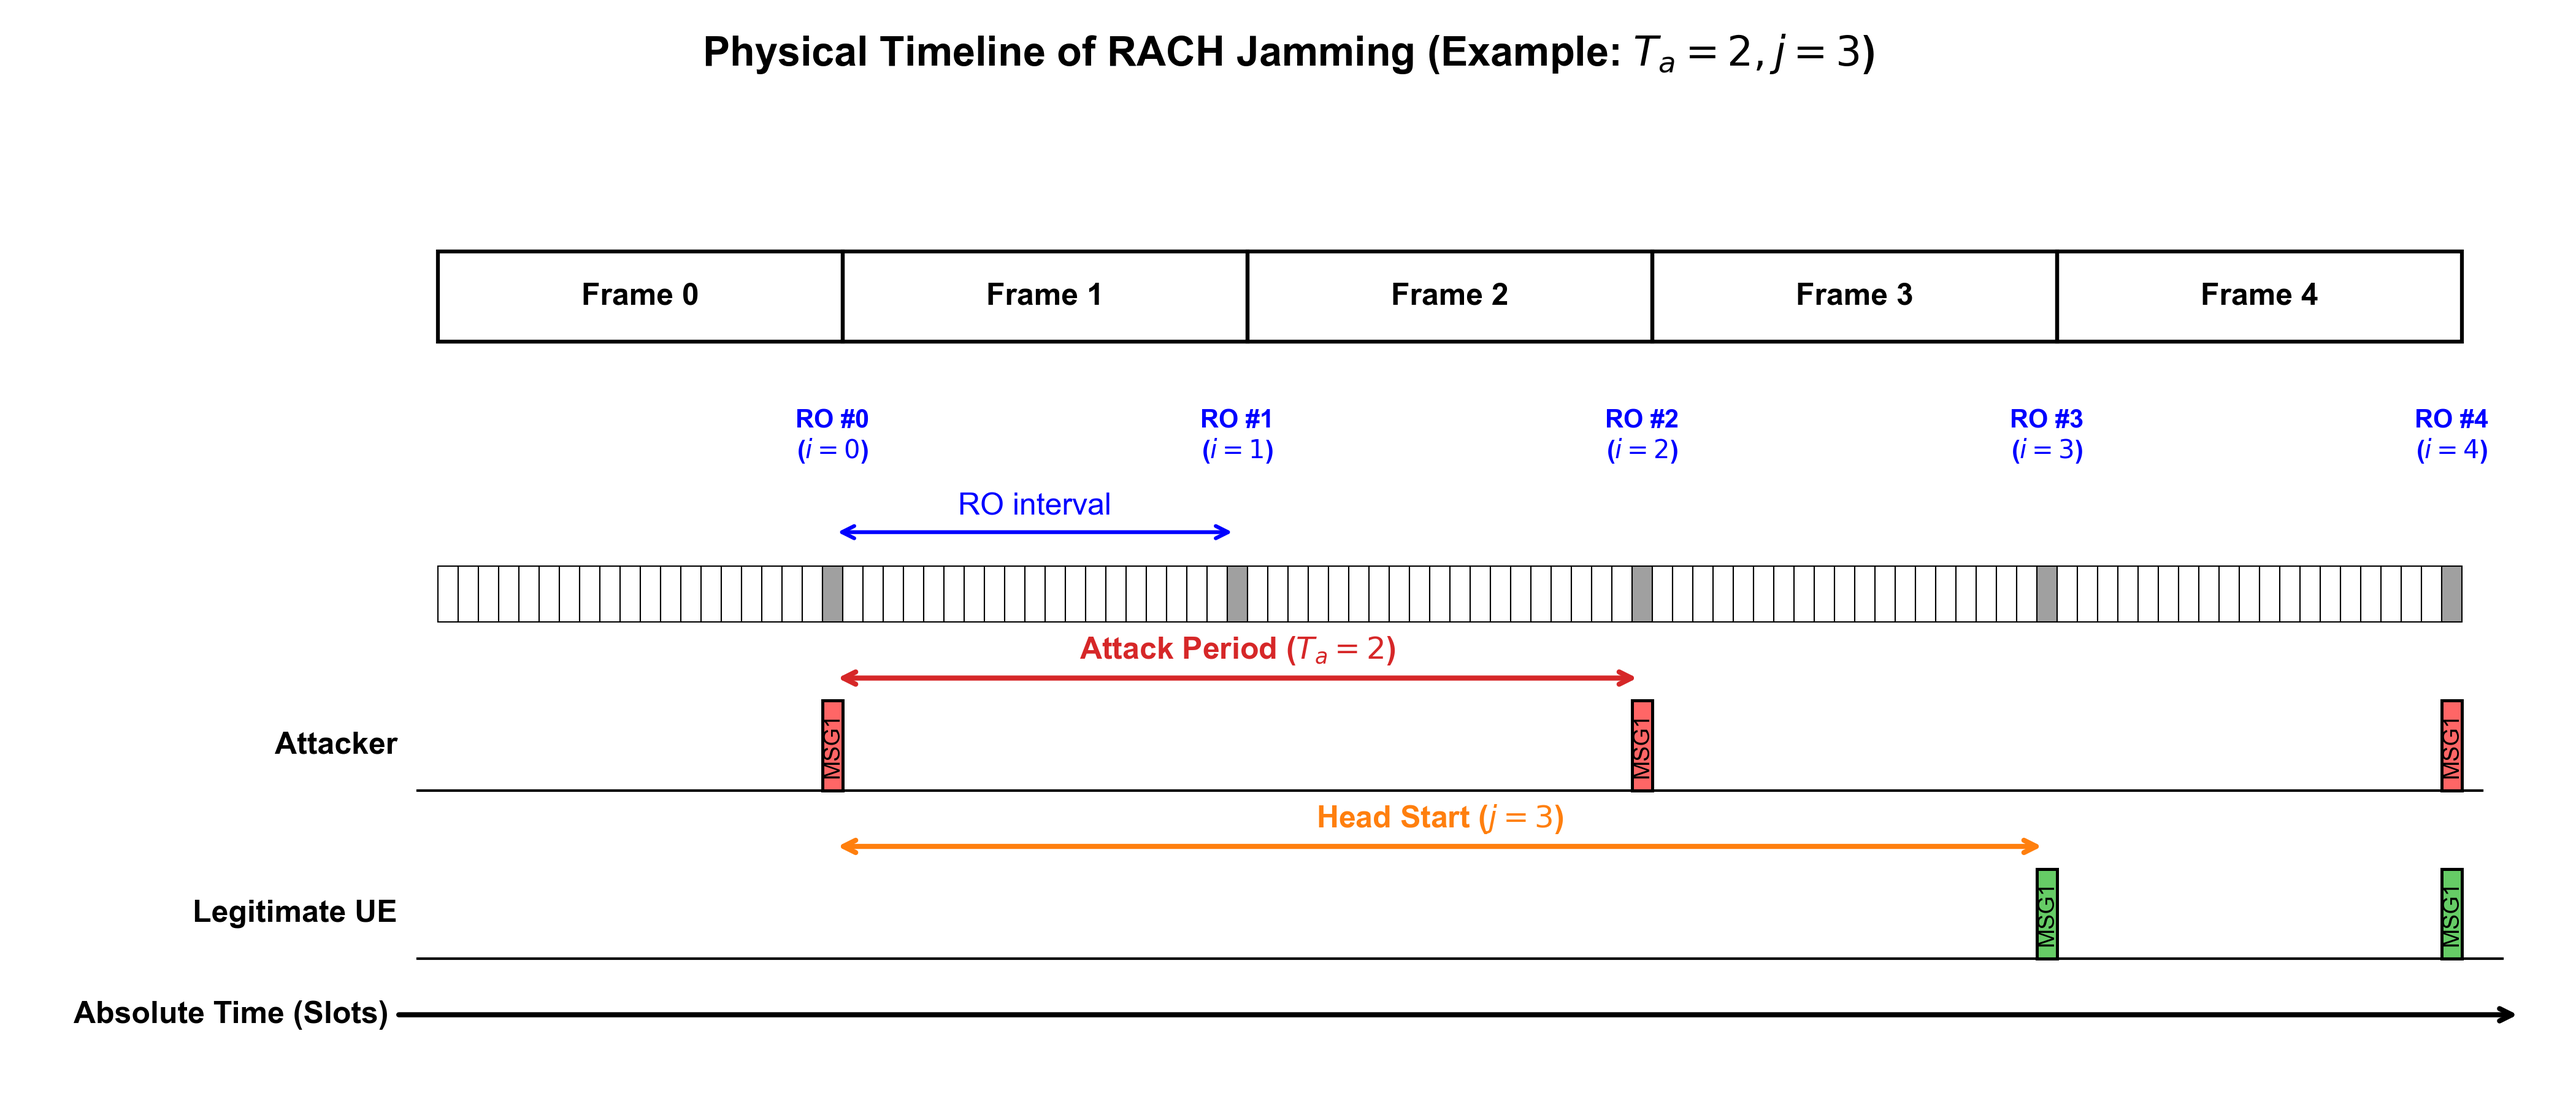
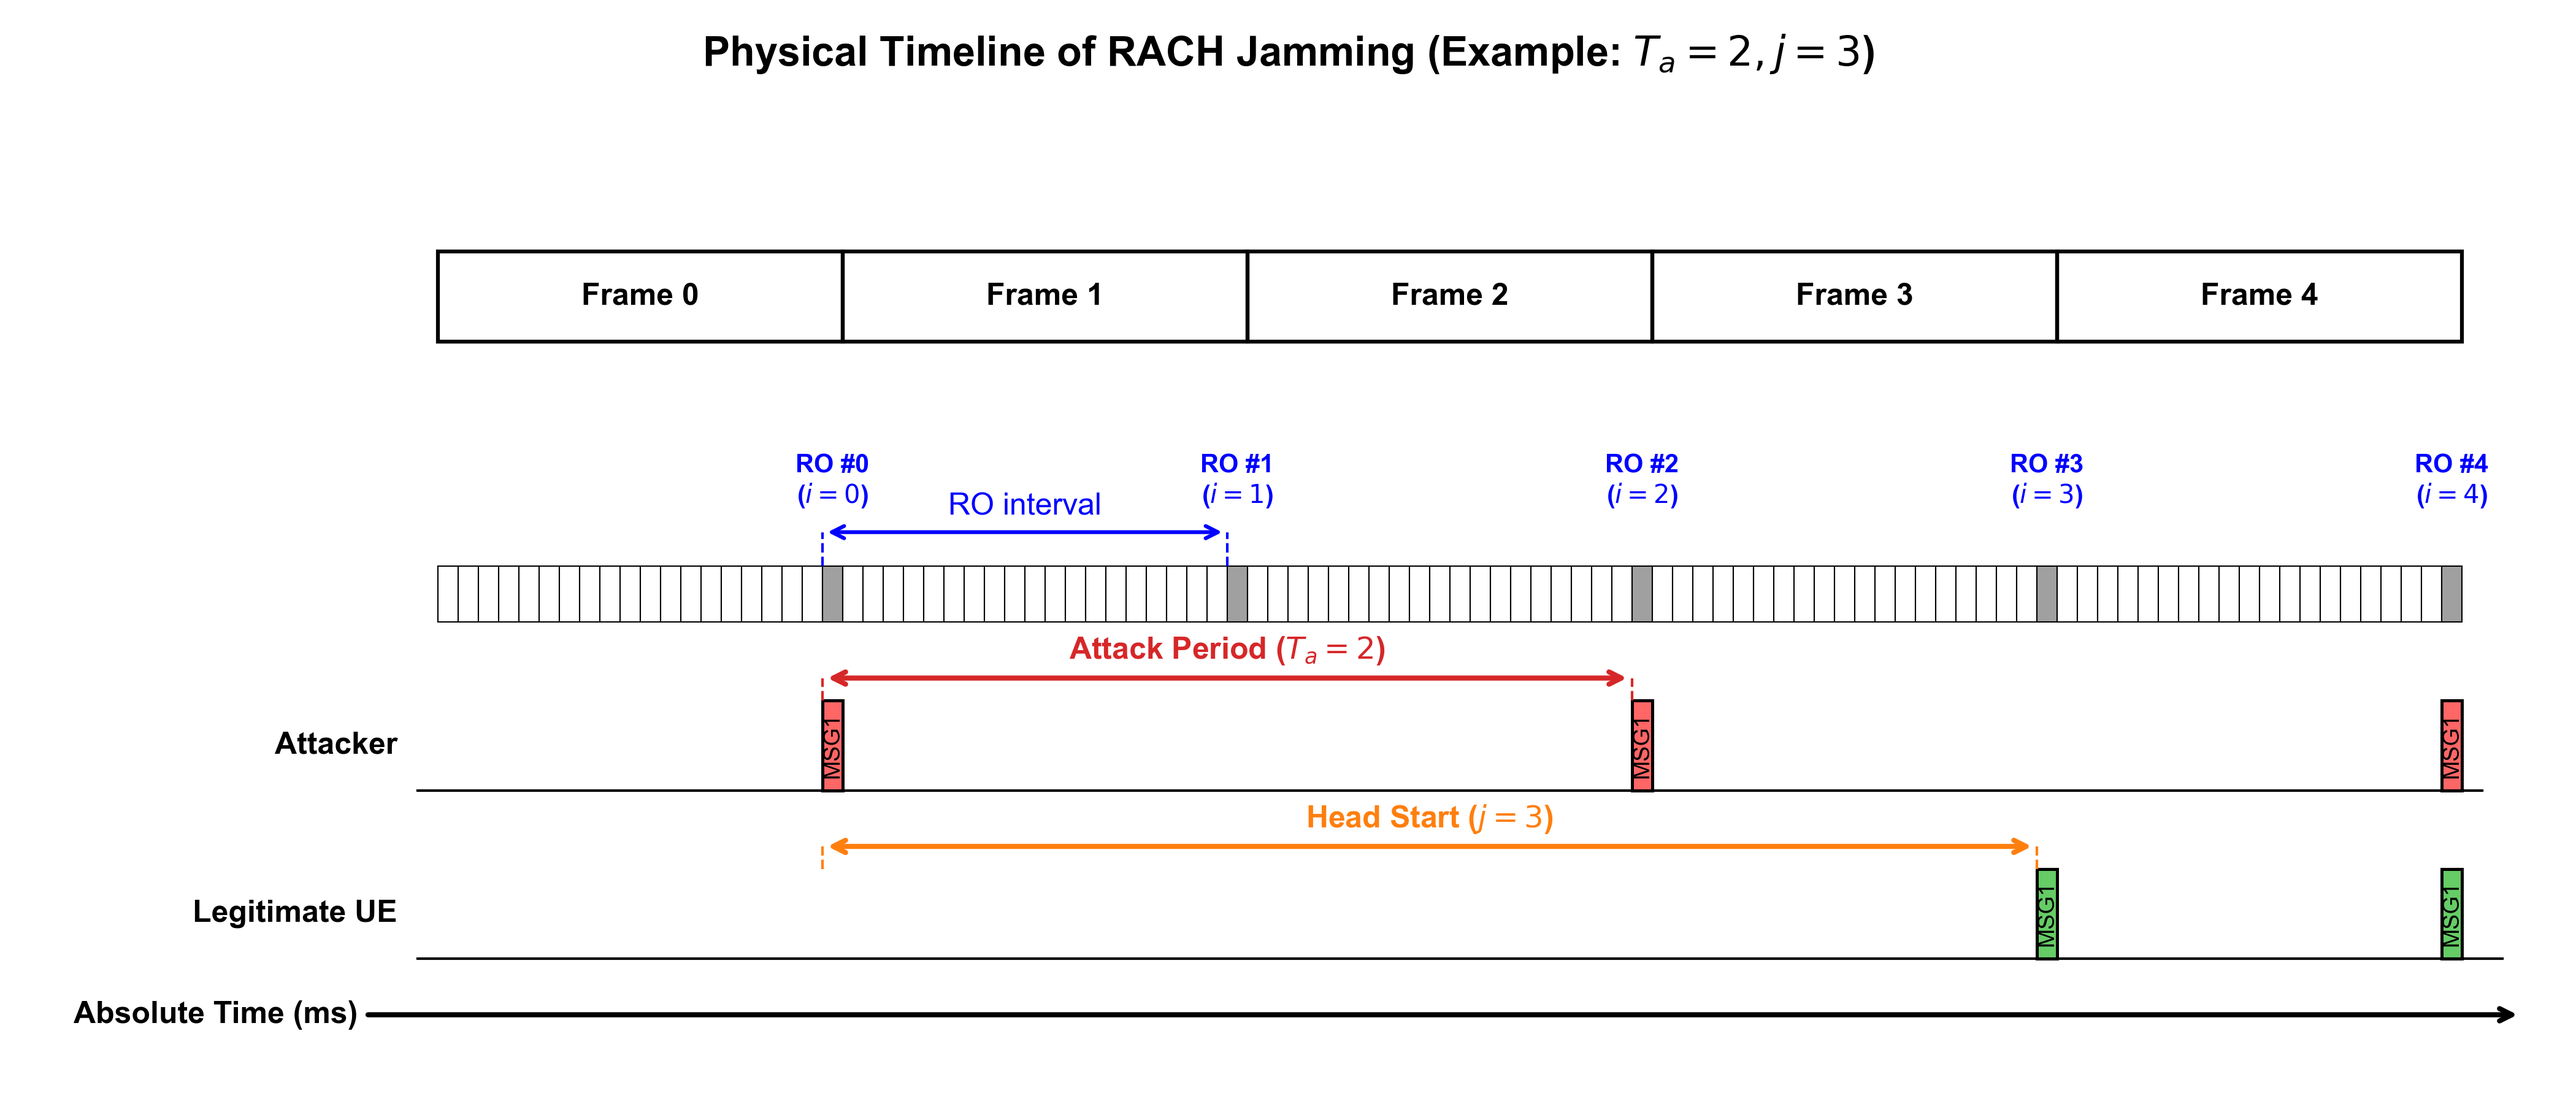
add: re-draw 2  Ta j i concept

diff --git a/0407/RO-draw2.py b/0407/RO-draw2.py
@@ -45,9 +45,14 @@ for s in range(total_slots):
 
 # 標示 RO Interval
 if len(ro_positions) >= 2:
-    ax.annotate('', xy=(ro_positions[0]+0.5, y_slot+0.8), xytext=(ro_positions[1]+0.5, y_slot+0.8),
+    pos_start = ro_positions[0]
+    pos_end = ro_positions[1]
+    ax.annotate('', xy=(pos_start, y_slot+0.8), xytext=(pos_end, y_slot+0.8),
                 arrowprops=dict(arrowstyle='<->', color='blue', lw=1.5))
-    ax.text((ro_positions[0] + ro_positions[1])/2 + 0.5, y_slot+0.9, 'RO interval', ha='center', va='bottom', color='blue')
+    ax.text((pos_start + pos_end)/2, y_slot+0.9, 'RO interval', ha='center', va='bottom', color='blue')
+    # 垂直虛線對齊 slot 左邊緣
+    ax.plot([pos_start, pos_start], [y_slot+0.5, y_slot+0.8], ls='--', color='blue', lw=1)
+    ax.plot([pos_end, pos_end], [y_slot+0.5, y_slot+0.8], ls='--', color='blue', lw=1)
 
 # ==========================================
 # 2. 繪製 Attacker 排程 (嚴格對齊時間軸)
@@ -66,16 +71,19 @@ for idx in atk_ro_indices:
 if len(atk_ro_indices) >= 2:
     pos1 = ro_positions[atk_ro_indices[0]]
     pos2 = ro_positions[atk_ro_indices[1]]
-    ax.annotate('', xy=(pos1+0.5, y_atk+1.0), xytext=(pos2+0.5, y_atk+1.0),
+    ax.annotate('', xy=(pos1, y_atk+1.0), xytext=(pos2, y_atk+1.0),
                 arrowprops=dict(arrowstyle='<->', color='#d62728', lw=2))
-    ax.text((pos1+pos2)/2 + 0.5, y_atk+1.1, f'Attack Period ($T_a={Ta}$)', ha='center', va='bottom', color='#d62728', fontweight='bold')
+    ax.text((pos1+pos2)/2, y_atk+1.1, f'Attack Period ($T_a={Ta}$)', ha='center', va='bottom', color='#d62728', fontweight='bold')
+    # 垂直虛線對齊邊緣
+    ax.plot([pos1, pos1], [y_atk+0.8, y_atk+1.0], ls='--', color='#d62728', lw=1)
+    ax.plot([pos2, pos2], [y_atk+0.8, y_atk+1.0], ls='--', color='#d62728', lw=1)
 
 # ==========================================
 # 3. 繪製 UE 排程 (嚴格對齊時間軸)
 # ==========================================
 y_ue = 0.0
 ax.plot([-1, total_slots + 2], [y_ue, y_ue], color='black', lw=1)
-ax.text(-2, y_ue+0.4, 'Legitimate UE', ha='right', va='center', fontweight='bold', fontsize=12)
+ax.text(-2, y_ue+0.4, 'Commercial UE', ha='right', va='center', fontweight='bold', fontsize=12)
 
 # UE 從第 j 個 RO 開始發送
 for idx in range(j, len(ro_positions)):
@@ -87,9 +95,12 @@ for idx in range(j, len(ro_positions)):
 if j < len(ro_positions):
     pos0 = ro_positions[0]
     pos_j = ro_positions[j]
-    ax.annotate('', xy=(pos0+0.5, y_ue+1.0), xytext=(pos_j+0.5, y_ue+1.0),
+    ax.annotate('', xy=(pos0, y_ue+1.0), xytext=(pos_j, y_ue+1.0),
                 arrowprops=dict(arrowstyle='<->', color='#ff7f0e', lw=2))
-    ax.text((pos0+pos_j)/2 + 0.5, y_ue+1.1, f'Head Start ($j={j}$)', ha='center', va='bottom', color='#ff7f0e', fontweight='bold')
+    ax.text((pos0+pos_j)/2, y_ue+1.1, f'Head Start ($j={j}$)', ha='center', va='bottom', color='#ff7f0e', fontweight='bold')
+    # 垂直虛線對齊邊緣
+    ax.plot([pos0, pos0], [y_ue+0.8, y_ue+1.0], ls='--', color='#ff7f0e', lw=1)
+    ax.plot([pos_j, pos_j], [y_ue+0.8, y_ue+1.0], ls='--', color='#ff7f0e', lw=1)
 
 # ==========================================
 # 4. 圖表美化
@@ -98,7 +109,7 @@ ax.set_xlim(-20, total_slots + 4)
 ax.set_ylim(-1.0, 7.5)
 
 # 繪製絕對時間軸的箭頭
-ax.annotate('Absolute Time (Slots)', xy=(total_slots + 3, -0.5), xytext=(-18, -0.5),
+ax.annotate('Absolute Time (ms)', xy=(total_slots + 3, -0.5), xytext=(-18, -0.5),
             arrowprops=dict(arrowstyle='->', color='black', lw=2), va='center', fontweight='bold')
 
 # 隱藏預設座標軸
